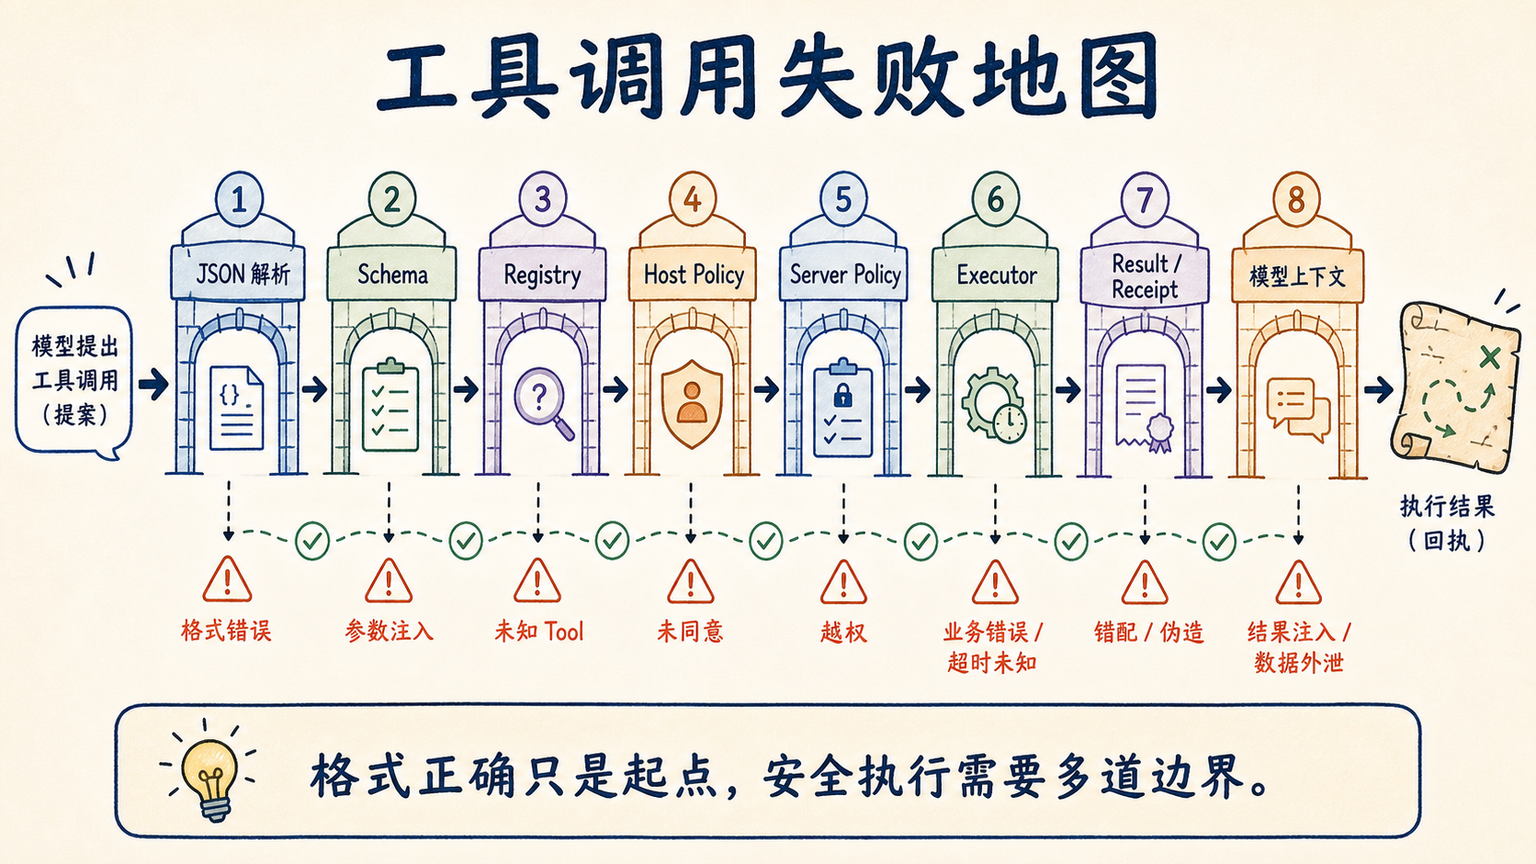
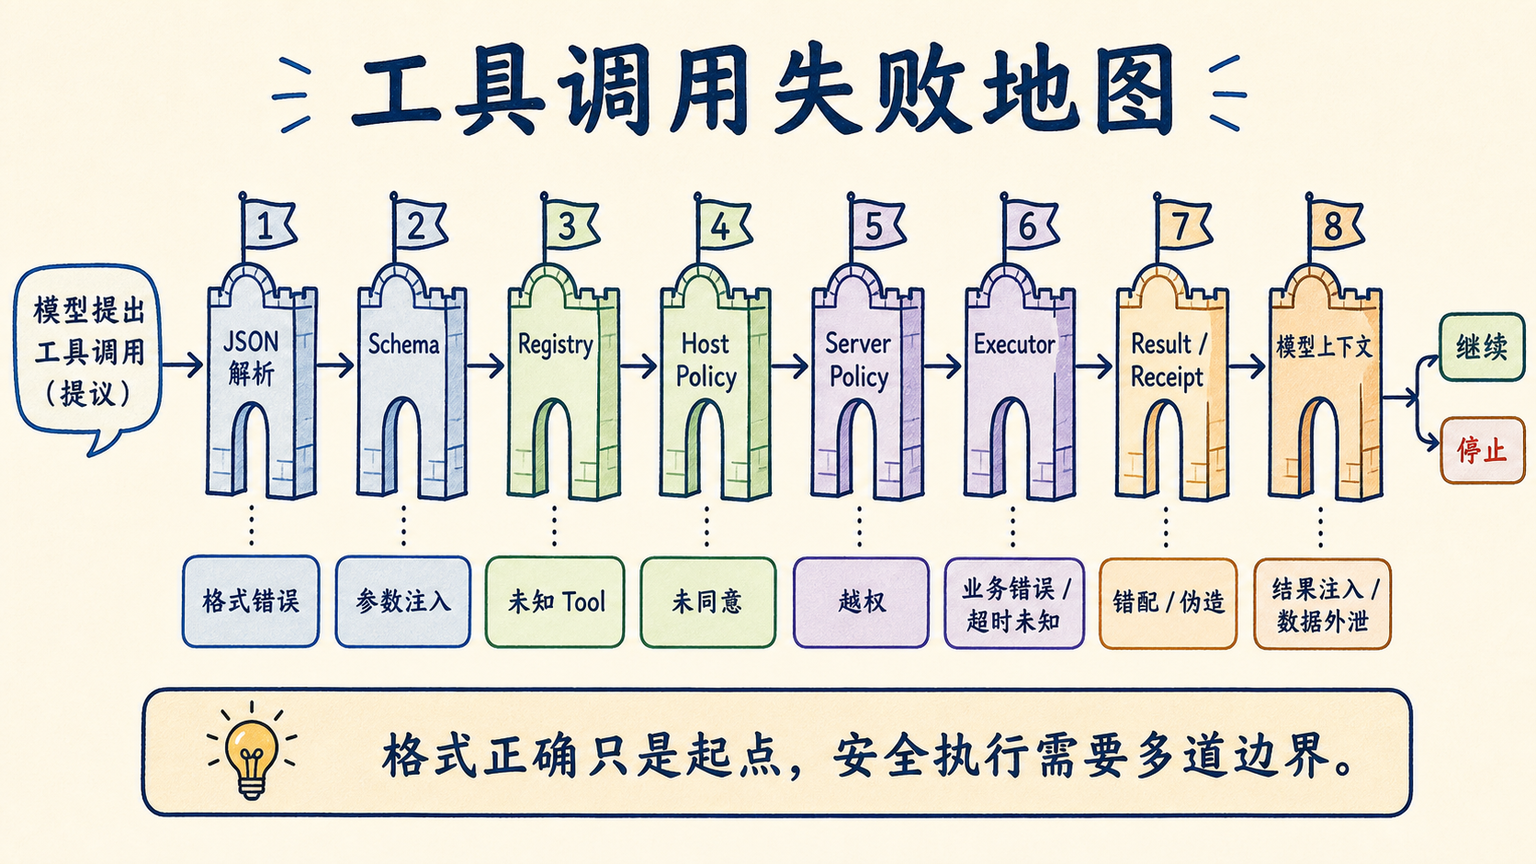
docs: review and refine chapter 9

diff --git a/chapter9/publication_checks.py b/chapter9/publication_checks.py
@@ -46,9 +46,11 @@ def publication_errors(
     sources_path = root / "book/sources/chapter9-sources.md"
     answers_path = root / "chapter9/reference-answers.md"
     readme_path = root / "chapter9/README.md"
+    review_path = root / "book/reviews/chapter9-review-codex.md"
     chapter = _read(chapter_path)
     sources = _read(sources_path)
     answers = _read(answers_path)
+    review = _read(review_path)
     errors: list[str] = []
 
     if not chapter:
@@ -57,6 +59,10 @@ def publication_errors(
         errors.append("missing_reader_file:chapter9/README.md")
     if not answers_path.is_file():
         errors.append("missing_reader_file:chapter9/reference-answers.md")
+    if not review_path.is_file():
+        errors.append("missing_review_report:book/reviews/chapter9-review-codex.md")
+    elif "没有未处理的 P0 或 P1" not in review:
+        errors.append("open_priority_review_finding:chapter9")
 
     prose = _prose_only(chapter)
     cjk_count = len(re.findall(r"[\u3400-\u9fff]", prose))
@@ -102,7 +108,7 @@ def publication_errors(
     if source_count < contract.source_count:
         errors.append(f"source_count_below_minimum:{source_count}")
 
-    bundle_text = "\n".join((chapter, sources, answers, _read(readme_path)))
+    bundle_text = "\n".join((chapter, sources, answers, _read(readme_path), review))
     if re.search(r"\bsk-[A-Za-z0-9_-]{24,}\b", bundle_text) or re.search(
         r"\b[A-Z][A-Z0-9_]*(?:API_KEY|TOKEN|SECRET)\s*=\s*[\"']?[A-Za-z0-9._~+/=-]{16,}",
         bundle_text,

diff --git a/chapter9/tests/test_chapter_mainline.py b/chapter9/tests/test_chapter_mainline.py
@@ -93,6 +93,18 @@ class ChapterMainlineTests(unittest.TestCase):
             self.assertIn(text, chapter)
         self.assertNotIn("MCP 会自动保证工具安全", chapter)
 
+    def test_review_closes_reader_trust_consent_and_error_taxonomy_gaps(self):
+        chapter = CHAPTER.read_text(encoding="utf-8")
+        for marker in (
+            "可以把它们想成三张单据",
+            "预先建立的用户同意",
+            "本章 Receipt 证明的是",
+            "不是外部系统的密码学签名",
+            "Unknown Tool 在 MCP 线上属于协议错误",
+            "Tool Execution Error",
+        ):
+            self.assertIn(marker, chapter)
+
 
 if __name__ == "__main__":
     unittest.main()

diff --git a/chapter9/tests/test_figures.py b/chapter9/tests/test_figures.py
@@ -51,6 +51,14 @@ class ChapterFigureTests(unittest.TestCase):
             self.assertIn("**读图顺序：**", following, match.group("name"))
             self.assertIn("**这张图要说明：**", following, match.group("name"))
 
+    def test_failure_map_v2_ends_in_a_decision_not_a_second_receipt(self):
+        prompt = (
+            ROOT
+            / "infographic/chapter9-failure-map/prompts/infographic-v2.md"
+        ).read_text(encoding="utf-8")
+        self.assertIn("继续 / 停止", prompt)
+        self.assertIn("never show another receipt after model context", prompt.casefold())
+
 
 if __name__ == "__main__":
     unittest.main()

diff --git a/chapter9/tests/test_publication_checks.py b/chapter9/tests/test_publication_checks.py
@@ -54,6 +54,7 @@ class PublicationChecksTests(unittest.TestCase):
         for expected in (
             "cjk_count_out_of_range",
             "heading_count_out_of_range",
+            "missing_review_report",
             "missing_version",
             "figure_set_mismatch",
             "exercise_numbers_invalid",

diff --git a/book/reviews/chapter9-review-codex.md b/book/reviews/chapter9-review-codex.md
@@ -1,0 +1,118 @@
+# 第 9 章 Review：工具调用与 MCP
+
+- Review 日期：2026-09-01
+- Review 范围：正文、8 幅图、来源台账、配套代码、规范报告、练习与参考答案
+- Review 视角：首次接触工具协议的读者；AI Agent / MCP 工程实现者
+- 最终结论：通过整改，可进入发布接入；没有未处理的 P0 或 P1
+
+## 总体结论
+
+整改后的章节约 2.55 万个有效中文字符，以同一个虚构支付故障任务贯穿 v0–v6。主线从“文本误报完成”开始，依次增加 JSON、Schema、四份合同、Tool Loop、授权与 Receipt，最后接入官方 MCP Python SDK。读者不需要 API Key 就能重现实验，代码、报告、Trace、练习和图片能够互相指向。
+
+综合评价为 9/10。最强的部分是边界意识和证据链：模型提议不等于执行、Host 同意不等于 Server 授权、Tool Result 不等于可信 Receipt、进程内 SDK 测试不等于真实网络兼容。初稿的主要问题不是内容不足，而是三处表述或视觉可能把教学简化误认为协议事实；现已全部整改并增加回归检查。
+
+“可进入发布接入”只表示本章满足当前书稿合同，不表示示例已经达到生产级。持久幂等、远程 OAuth、真实传输故障、大规模工具发现和模型统计评估仍是公开限制。
+
+## P0 / P1 / P2 Findings
+
+| ID | 级别 | 发现 | 处理 | 状态 |
+| --- | --- | --- | --- | --- |
+| R9-01 | P1 | 本地 `ResultStatus` 容易被误读为 MCP 线上错误分类；Unknown Tool 实际属于协议错误 | 正文和 README 新增“协议错误 / Tool Execution Error”边界，来源台账补充用途，测试锁定关键表述 | 已关闭 |
+| R9-02 | P1 | “可信 Receipt”可能被理解为外部系统的独立或密码学证明 | v4 改为“可核对”，正文、README、参考答案明确本章信任域和回查/签名方案 | 已关闭 |
+| R9-03 | P1 | 第一版失败地图在“模型上下文”后重复绘制“执行结果（回执）”，时序错误 | 保留旧候选于忽略目录，新增 v2 提示词并重绘，最终路径以“继续 / 停止”结束 | 已关闭 |
+| R9-04 | P2 | Definition、Call、Result、Receipt 在短答案段落首次密集出现，初学者认知负担偏高 | 增加“三张单据”类比，并在实验 README 重复最小词汇表 | 已关闭 |
+| R9-05 | P2 | 教学 Policy 对读 Tool 自动 `allow`，缺少用户同意前提 | 明确这是已展示范围并预先建立同意、Fixture 无敏感数据的教学假设 | 已关闭 |
+| R9-06 | P2 | OpenAI 与 Anthropic 来源地址可改为当前重定向后的官方规范地址 | 来源台账更新到 `developers.openai.com` 与 `platform.claude.com` | 已关闭 |
+
+本轮没有发现 P0。整改完成后没有开放 P1。
+
+## 读者视角 Review
+
+开场对非 SRE 读者友好。正文在第一次使用时解释“值班”“P1”“Runbook”，并用“模型声称已建单、系统列表仍为空”制造可验证冲突。支付故障只是稳定的实验载体，不要求读者理解复杂运维体系。
+
+章节路径清晰。v0–v4 均使用“输入—关键代码—运行结果—解决了什么—还没有解决什么”的固定节奏；每个版本只新增一类边界。代码片段保持一屏内可读，完整实现留在 `chapter9/`。v5–v6 再引入 MCP，避免读者把协议、执行器和 Agent Loop 混成一个黑盒。
+
+初稿最明显的可读性问题是短答案表格一次引入多个英文合同名。新增的单据类比把四个对象放回日常经验：目录、申请、结果和关联回执。类比没有替代精确定义，后文代码仍逐一展开字段和责任。
+
+输出解释充分。每条运行命令后都说明应该看到的状态、副作用数和未发生的动作；规范报告另有可读 Markdown。没有用“运行成功”替代验收，也没有要求初学者从整段 JSON 自己猜结论。
+
+唯一仍需读者投入较多精力的部分是“从教学实现走向生产”与失败注入推演。这些内容放在主线之后，并使用粗体段落而非继续增加标题，作为进阶阅读是合理的。快速入门读者可以先完成 v0–v6 和一星练习，再回看生产部分。
+
+## AI 工程视角 Review
+
+**协议版本。** 现代 MCP 基线明确写为 `2026-07-28`，旧版兼容路径明确写为 `2025-11-25`。正文准确区分每请求自描述、可选 `server/discover` 与旧版初始化握手，也明确“无协议 Session 不等于业务无状态”。
+
+**SDK API。** 配套代码锁定 `mcp==2.1.1`，使用官方 `MCPServer` 与 `Client`。默认 Client 验证现代版本，`mode="legacy"` 验证显式旧版路径。进程内测试经过官方 SDK，而不是自制相似 JSON；正文同时拒绝把它推广为 stdio、HTTP 或任意第三方实现兼容。
+
+**Schema。** `schema.py` 明确只实现 `type`、`properties`、`required`、`additionalProperties`、`items`、`enum`、`minimum`、`maximum` 八个关键字，并拒绝未知关键字。正文没有把它包装成完整 JSON Schema 2020-12，生产建议指向成熟实现。
+
+**错误语义。** 应用内 `ResultStatus` 保持小而稳定，`failure.code` 保存细分原因；整改后正文明确它不是 MCP Wire Error 枚举。Unknown Tool、畸形协议请求与 Tool Execution Error 的区别已写入正文、README 和来源用途。
+
+**同意与授权。** Host 负责用户意图、展示和同意，Server 根据受信身份与 Scope 做业务授权。模型 Arguments 不承载 `approved`、角色或 Token。读 Tool 自动 `allow` 已标注为预先同意的教学假设，避免把 Fixture 策略误写成规范通行证。
+
+**Receipt 信任。** Receipt 只能由执行边界在 Handler 成功并返回外部 ID 后构造，模型伪造字段在封闭 Schema 门被拒绝。整改后不再暗示其为独立密码学证明；跨服务生产方案需要回查、签名或独立 Verifier。
+
+**传输与安全。** stdio、Streamable HTTP 与直接函数调用按部署和信任边界选择；正文没有宣称 stdio 天然安全。威胁模型覆盖恶意 Server、Resource/Result 注入、路径越界、Token 透传、confused deputy、日志泄露和供应链变化。
+
+**Provider 与框架映射。** OpenAI Responses 的 JSON 字符串 Arguments 与 Anthropic `tool_use.input` 对象通过 Adapter 归一；默认实验不联网。LangChain 与 LangGraph 只映射它们替代的样板代码，业务授权、完成证据和审计仍归应用所有。
+
+**章节边界。** 本章只为超时、重试、取消、异步与大规模发现建立接口地图；实现细节留给第 10 章。Claude Code、Codex 等产品级 Harness 留给第 11 章。没有提前把后续两章写完。
+
+## 代码与报告证据
+
+- `python -m unittest discover -s chapter9/tests -v`：46 项测试通过。
+- `python scripts/check_repository.py --root .`：通过，无缺失链接、凭据、作者机器路径或不安全发布内容。
+- 出版门禁：有效中文字符 25,493；二至三级标题 38；PNG 8 幅；练习 14 道；来源 28 条；错误集合为空。
+- 规范实验：5 组 20 个固定单样本案例，覆盖合同、循环、安全、MCP 原语和版本兼容。
+- 报告可重复性：JSON、Markdown 与 JSONL Trace 连续生成保持字节一致。
+- Trace 最小化：保留因果 ID 与摘要，不含原始参数、调用者身份、授权集合和 Runbook 正文。
+
+这些证据支持“边界按固定输入工作”，不支持模型成功率、产品优劣、网络可靠性或生产安全认证。
+
+## 视觉 Review
+
+8 幅 PNG 使用统一的中文手绘教学风：奶油纸张、深蓝线条、低饱和蓝绿紫橙、明确编号和底部结论。主图为 1024×1536，其余为 1536×864。每幅图在正文中只有一次引用，并带独立替代文本、“读图顺序”和“这张图要说明”。
+
+视觉不是正文表格的截图：主图承担端到端旅程，边界图解释三层关系，四份合同图解释对象责任，Loop 图解释结果回流，MCP 架构图解释隔离，三原语图解释控制权，协议图解释时序，失败地图解释多道门禁。
+
+失败地图 v1 的最右端语义错误已通过重新生成解决，未使用程序覆盖文字。v2 提示词与最终图片均保留；图像测试检查 v2 提示词必须以“继续 / 停止”结束。生成模型仍可能产生肉眼才可见的细小笔画差异，因此出版前应继续进行人工视觉抽检。
+
+## 来源新鲜度
+
+2026-09-01 重新核对了 MCP `2026-07-28` 规范首页、发布说明、Tools 与 Architecture 页面，确认无握手/Session、每请求自描述、可选 Discovery、三类 Server 原语、安全建议和错误分类。官方 Python SDK、本章锁定依赖、OpenAI Function Calling、Anthropic Tool Use 与 LangChain Tools 也按来源台账复核。
+
+来源台账只使用一手官方规范、官方 SDK、正式标准和本地工程证据。所有网页条目仍标记“出版前复核：是”，因为协议和产品接口会继续变化。锁定 `mcp==2.1.1` 只描述本章已测试版本，不声称它永久最新。
+
+## 已接受的修改
+
+1. 增加初学者单据类比和 README 最小词汇表。
+2. 将 v4 标题从“可证明”收紧为“可核对”。
+3. 公开 Receipt 的信任域、非密码学性质与生产回查方案。
+4. 标明读 Tool 自动 `allow` 的预先同意前提。
+5. 增加 MCP 协议错误与 Tool Execution Error 的准确映射。
+6. 更新 OpenAI、Anthropic 来源为当前官方规范地址。
+7. 重绘失败地图并增加视觉语义回归检查。
+8. 在正文、README、参考答案、来源台账和测试之间同步上述修改。
+
+## 未接受的建议及理由
+
+**把教学 `ResultStatus` 扩展成完整 MCP 线上错误枚举。** 未接受。核心 Runtime 是 Provider/MCP 中立的教学边界，线上协议错误由 MCP Adapter 与 SDK 处理。增加完整枚举会让 v2 提前承担协议细节；正文已明确两套分类不可一一对应。
+
+**把真实 Provider 调用设为必跑主实验。** 未接受。主实验要固定决策以验证外围边界；实时 Provider 会混入模型、网络和版本变量。可选 Live Probe 已足以演示 Adapter 形态，且默认离线。
+
+**本章实现完整 OAuth、Streamable HTTP 与持久幂等。** 未接受。它会把第 9 章扩成生产平台章节，并与第 10 章重复。本章保留威胁与接口地图，公开未实现范围。
+
+**每个读 Tool 都弹出一次确认框。** 未作为固定 UI 规则接受。协议强调人类可控制和拒绝，但不强制一种界面；低风险读取可以在清晰展示范围后使用有时限、按资源裁剪的预先同意。高风险与敏感数据仍需要更细确认。
+
+**给教学 Receipt 加密码学签名。** 未接受。当前 Handler 与 TicketStore 同处一个进程，签名不会增加实验要验证的边界。正文改为准确说明证据强度，并把跨服务签名与回查列为生产方案。
+
+## 最终剩余风险
+
+- `TicketStore`、Call ID 去重和 Grant 都是进程内状态，进程退出后不持久。
+- 官方 SDK 进程内测试没有覆盖真实 stdio 子进程、Streamable HTTP、代理、OAuth 和网络分区。
+- 教学 Schema 子集不覆盖组合 Schema、引用、格式、完整 Unicode 和官方测试套件。
+- Live Probe 是可选单次观察，不提供模型质量统计，也未纳入规范报告。
+- 图片中文字由生成模型绘制，机器测试只验证尺寸、引用和提示词语义，最终出版仍需人工目视。
+- MCP、Provider 与框架接口会演进，出版前必须按来源台账再次复核。
+
+以上风险均已在正文或读者资料中公开，不构成未处理的 P0/P1，但会限制读者把示例直接复制到生产环境。

diff --git a/infographic/chapter9-failure-map/prompts/infographic-v2.md b/infographic/chapter9-failure-map/prompts/infographic-v2.md
@@ -1,0 +1,16 @@
+---
+references:
+  - ref_id: 01
+    filename: refs/01-ref-style.png
+    usage: direct
+revision_from: infographic.md
+revision_reason: "The first candidate incorrectly repeated a receipt after model context."
+---
+
+Use case: scientific-educational
+Asset type: Chinese security engineering landscape infographic, corrected second render
+Primary request: Create an original left-to-right “security gates” infographic titled “工具调用失败地图”. A proposed call begins at a speech bubble “模型提出工具调用（提议）”, then travels through exactly eight hand-drawn gates: “1 JSON 解析”, “2 Schema”, “3 Registry”, “4 Host Policy”, “5 Server Policy”, “6 Executor”, “7 Result / Receipt”, “8 模型上下文”. Under the gates show the matching concise risks in exactly this order: “格式错误”, “参数注入”, “未知 Tool”, “未同意”, “越权”, “业务错误 / 超时未知”, “错配 / 伪造”, “结果注入 / 数据外泄”. After gate 8, show only a small decision fork labeled “继续 / 停止”. Never show another receipt after model context. Result / Receipt must appear exactly once, at gate 7.
+Bottom takeaway, verbatim: “格式正确只是起点，安全执行需要多道边界。”
+Style/medium: use Image 1 only for visual language—warm cream paper, deep navy hand-drawn lines, macaron blue/mint/lavender/orange zones, slightly wobbly gates and arrows. Original composition; do not copy reference content.
+Composition/framing: landscape 16:9, target 1536×864, strong left-to-right reading direction, eight clearly separated gates, short labels, ample whitespace. Keep the final decision fork fully inside the canvas.
+Constraints: all labels exact and readable; no extra output scroll, no “执行结果（回执）” after model context, no logos, watermark, photorealism, cyberpunk styling, vendor names or extra risk claims.

diff --git a/chapter9/README.md b/chapter9/README.md
@@ -2,6 +2,8 @@
 
 本目录对应《深入浅出 AI Agent》第 9 章。实验从“模型用自然语言声称已创建故障单”开始，逐步加入 JSON、Schema、Tool Contract、Tool Loop、授权、Execution Receipt 和 MCP。所有默认实验都离线运行，不需要 API Key。
 
+第一次运行前只需记住：Definition 是能力目录，Call 是申请，Result 是办理结果，Receipt 是写操作成功后由执行边界记录的关联回执。Receipt 不是模型生成的文字，也不是外部系统的密码学签名；生产环境仍可能需要按外部 ID 回查。
+
 > 证据边界：这里固定模型决策、Fixture 与时钟，只比较外围系统是否守住合同。它不是模型质量测试，也不构成 OpenAI、Anthropic、DeepSeek 或任何 Agent 产品的能力排名。
 
 ## 环境
@@ -98,5 +100,6 @@ python -m chapter9.live.live_probe --provider anthropic
 
 本目录没有证明：某个真实模型更强；任意第三方 MCP 实现都兼容；进程内测试等价于公网部署；内存 TicketStore 提供生产级幂等和灾难恢复；单次实时探针能代表长期质量；字符数或 JSON 长度可以代替 Provider Token 计量。
 
-继续扩展时，请先新增失败案例，再修改 Runtime；不要通过放宽 Schema、把授权字段塞进模型 Arguments，或让 Handler 伪造成功结果来“修复”测试。
+教学版 `ResultStatus` 也是有意缩小的应用内分类。不要把它直接当作 MCP 线上错误码：Unknown Tool 和畸形 MCP 请求属于协议错误，已经进入具体 Tool 后的可行动失败才属于 Tool Execution Error。
 
+继续扩展时，请先新增失败案例，再修改 Runtime；不要通过放宽 Schema、把授权字段塞进模型 Arguments，或让 Handler 伪造成功结果来“修复”测试。

diff --git a/book/sources/chapter9-sources.md b/book/sources/chapter9-sources.md
@@ -78,8 +78,8 @@
 
 - 类型：官方规范
 - 地址：https://modelcontextprotocol.io/specification/2026-07-28/server/tools
-- 用于：确认 `tools/list`、`tools/call`、输入输出 Schema、Tool Error 与人类同意建议。
-- 不用于证明：不把 Tool 描述和 annotation 当成可信的强制安全边界。
+- 用于：确认 `tools/list`、`tools/call`、输入输出 Schema、人类在环建议，以及协议错误与 Tool Execution Error 的区分。
+- 不用于证明：不把 Tool 描述和 annotation 当成可信的强制安全边界，也不把教学版读 Tool 的自动 `allow` 解释为可以绕开用户知情和控制。
 - 最后核对：2026-09-01
 - 出版前复核：是
 
@@ -176,7 +176,7 @@
 ### [S20] OpenAI Function Calling
 
 - 类型：官方产品文档
-- 地址：https://platform.openai.com/docs/guides/function-calling
+- 地址：https://developers.openai.com/api/docs/guides/function-calling
 - 用于：说明模型返回函数名、`call_id` 与 JSON 字符串参数，应用负责真正执行并回传结果。
 - 不用于证明：不保证所有模型、接口与 Provider 返回完全相同的事件形态。
 - 最后核对：2026-09-01
@@ -194,7 +194,7 @@
 ### [S22] Anthropic Tool Use
 
 - 类型：官方产品文档
-- 地址：https://docs.anthropic.com/en/docs/agents-and-tools/tool-use/overview
+- 地址：https://platform.claude.com/docs/en/agents-and-tools/tool-use/overview
 - 用于：说明 `tool_use`、`tool_result` 与 object 形式的 `input`。
 - 不用于证明：不保证未来 Claude API 的所有工具类型都沿用同一字段集合。
 - 最后核对：2026-09-01
@@ -253,4 +253,3 @@
 - 不用于证明：不包含原始参数、Runbook 正文、调用者身份或授权集合。
 - 最后核对：2026-09-01
 - 出版前复核：是
-

diff --git a/chapter9/reference-answers.md b/chapter9/reference-answers.md
@@ -52,7 +52,7 @@
 
 ## 第 7 题
 
-**推理：** 额外的 `receipt` 字段必须因封闭 Schema 被拒绝，否则调用者可能污染可信证据。Receipt 至少包含 Action ID、Call ID、Tool、参数摘要、外部 ID 和发生时间。摘要证明所执行参数的指纹，外部 ID提供查询锚点，时间只证明执行器记录的时刻；三者都不能单独证明业务正确。响应丢失还需要持久幂等账本或外部按键查询。
+**推理：** 额外的 `receipt` 字段必须因封闭 Schema 被拒绝，否则调用者可能污染可信证据。Receipt 至少包含 Action ID、Call ID、Tool、参数摘要、外部 ID 和发生时间。摘要证明所执行参数的指纹，外部 ID 提供查询锚点，时间只证明执行器记录的时刻；三者都不能单独证明业务正确。当前 Receipt 由 Runtime 根据受信 Handler 的成功响应构造，不是外部系统的密码学签名。响应丢失还需要持久幂等账本或外部按键查询，关键动作还可按外部 ID 回查或验证签名。
 
 **常见错误：** 让 Handler 忽略伪造字段；由模型生成外部 ID；认为有 Receipt 就证明工单内容正确。
 
@@ -113,4 +113,3 @@
 **常见错误：** 三百个描述全部塞入上下文；搜索结果绕过权限裁剪；取消只停止前端等待；用进程内字典保存幂等键。
 
 **验收：** 图中包含搜索、裁剪、加载、提议、校验、授权、执行和回传；状态覆盖后台任务与恢复；列出至少六个可计算指标。
-
